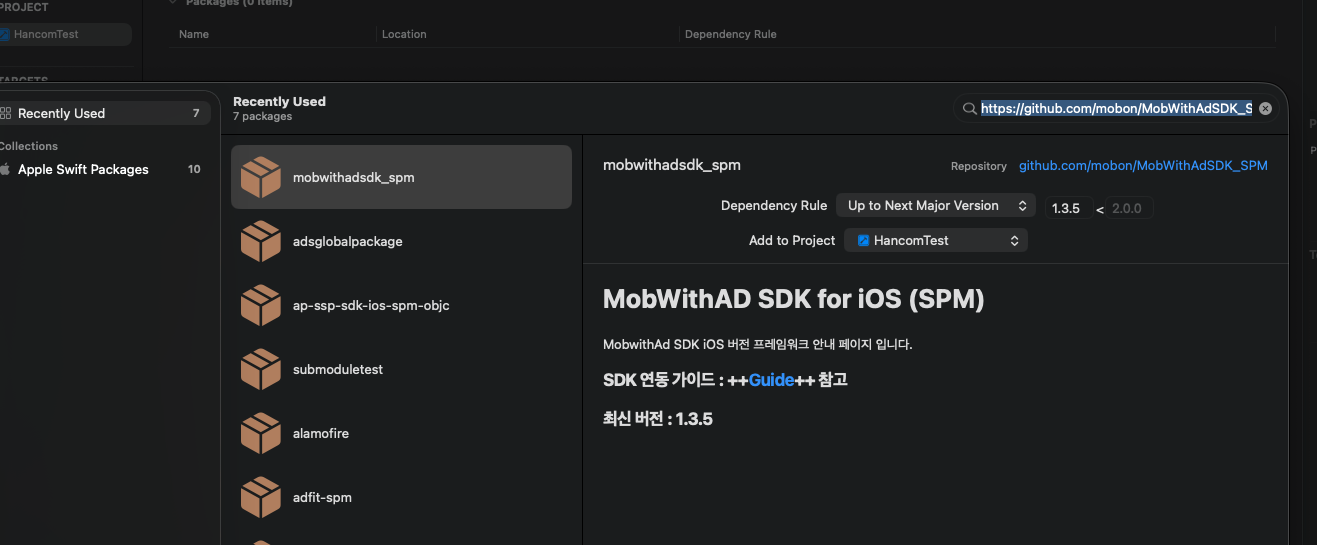
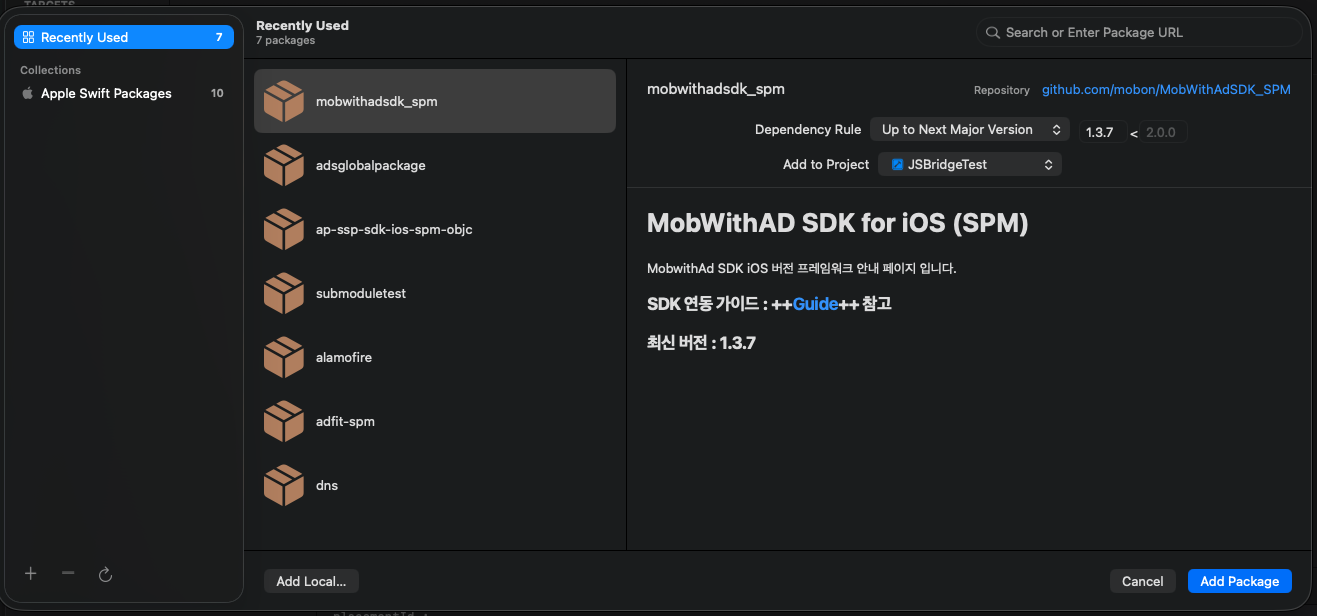
이미지 수정 및 오타 수정

diff --git a/dev/MobwithSDK/iOS/installation_base.md b/dev/MobwithSDK/iOS/installation_base.md
@@ -116,7 +116,7 @@ https://github.com/mobon/MobWithAdSDK_SPM
 ### 2. Targets -> Frameworks, Libraries, and Embedded Comtent 확인
 아래 스크린샷과 같이 MobWithADSDK 프레임워크가 포함되었는지 확인 합니다.  
 만약 자동으로 포함되어 있지 않은 경우 아래 '+' 버튼을 눌러 프레임워크를 추가해 줍니다.  
-![add to target](./Img/spm_add_package.png)  
+![add to target](./Img/spm_add_to_target.png)  
 
 
 <br><br>